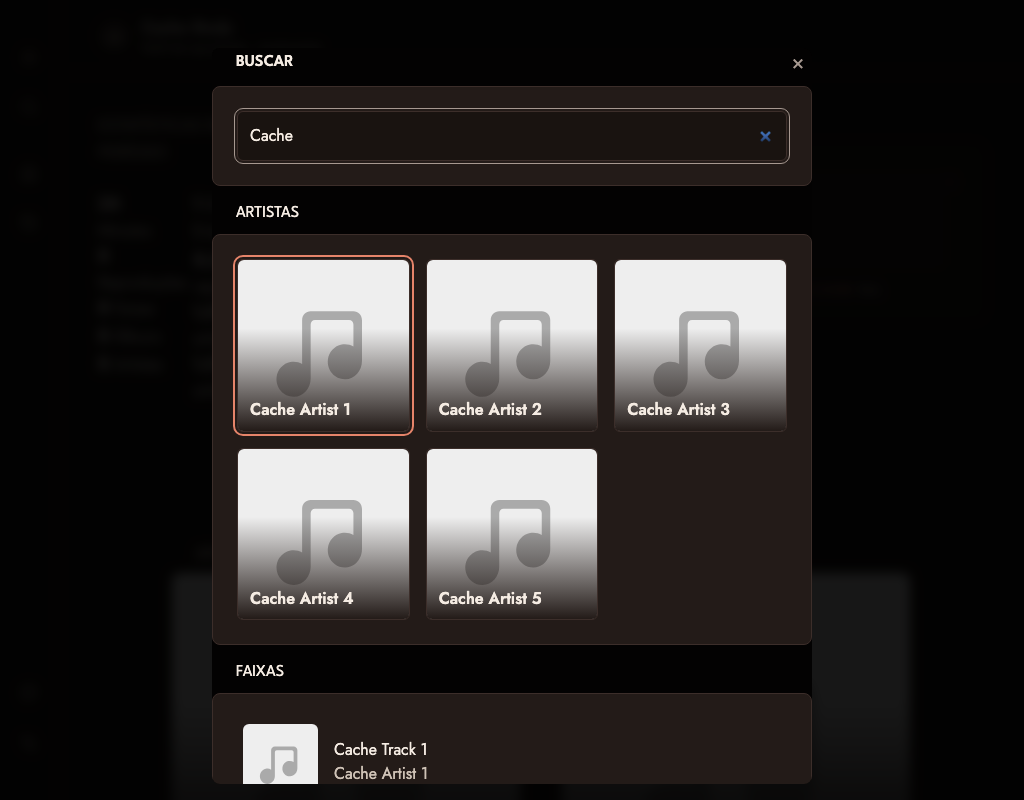
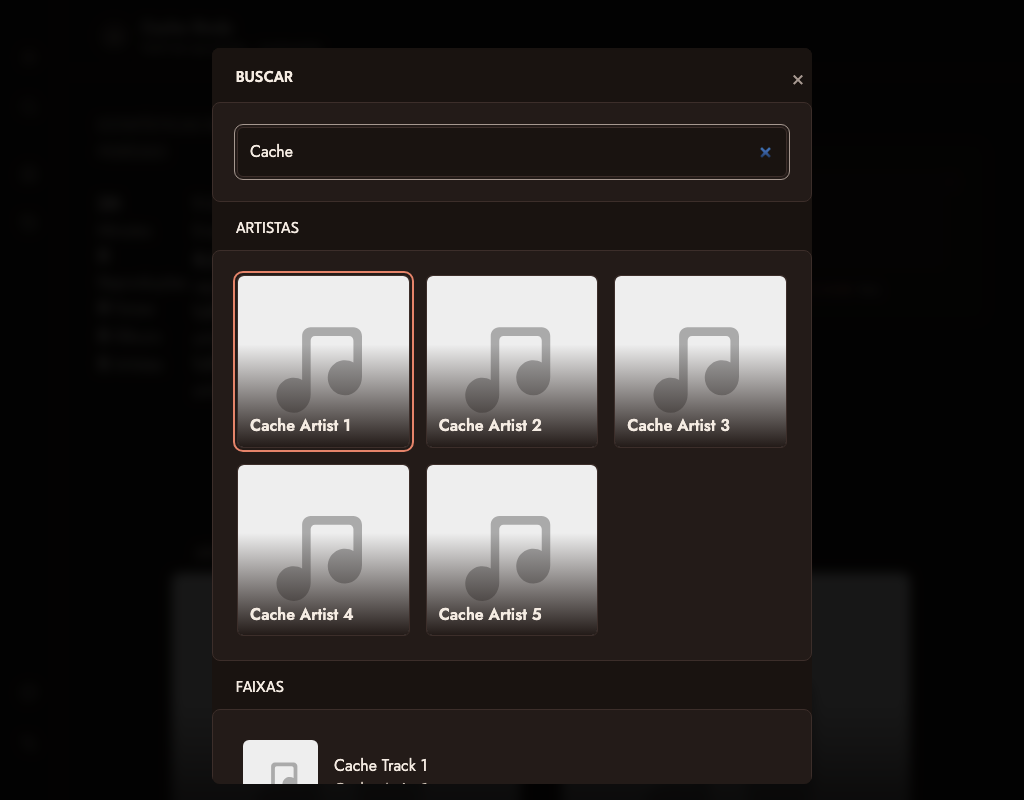
ISSUE-107: Usa o fundo do tema no diálogo de busca para manter os títulos legíveis
No tema Pearl os títulos ficavam escuros sobre fundo escuro; o roteiro agora verifica o Pearl.

diff --git a/backlog/evidencias/issue-067/reference/public/album.html b/backlog/evidencias/issue-067/reference/public/album.html
@@ -15,7 +15,7 @@
       >
       <link rel="stylesheet" href="/web-assets/themes.css?v=e7720dfde7612d2e0000f10b7373a517702a409aee8a2b1774b89ce7698947f4">
       <script src="/web-assets/theme.js?v=0c593fb63234b2c4c4d8a9657c42c8a5bfbb5a0184422f7b59ac2707c347798a"></script>
-      <link rel="stylesheet" href="/web-assets/ui.css?v=722b458812f1cf9aec5ada8575b8138265e23d92aa00cf426e5deeeb2eae15dd">
+      <link rel="stylesheet" href="/web-assets/ui.css?v=886c77fc96cf7fd834d93e819556761d03e18ae1dc70c03c0732666ab7cc0bd1">
       <script defer src="/web-assets/theme-picker.js?v=2a7c560c283c563fea7209a8b8244b98170eb46b5b0e712ebf41a438c5a583b1"></script>
       <script defer src="/web-assets/nav.js?v=5b5589a73f4b9ef414aef5c020186951c947e3850ba52c2263cbbee8cba1977c"></script>
       <script defer src="/web-assets/ui.js?v=fa4d2fbdf77a86dc6042add5616af9c7df48fac084ae9269ecb1fc1d4cd33012"></script>
@@ -29,7 +29,7 @@
       data-i18n-delete-confirm="Delete this listening record?"
       data-i18n-delete-error="Unable to delete this listening record. Please retry."
       data-assets="/web-assets"
-      data-ui-generation="0.10-96ac506255655ebbe46f2aaef1f4e0e4f91db052e2d34fb525fecb5105fc08b5"
+      data-ui-generation="0.10-08bb0aa37d3e4ff9db4d67f42cc1f5b781b7f1eba70fdb15e3539a55bc9389f8"
       data-timezone="UTC"
       data-week-start="0"
       data-force-timezone="false"

diff --git a/backlog/evidencias/issue-067/reference/public/albums.html b/backlog/evidencias/issue-067/reference/public/albums.html
@@ -15,7 +15,7 @@
       >
       <link rel="stylesheet" href="/web-assets/themes.css?v=e7720dfde7612d2e0000f10b7373a517702a409aee8a2b1774b89ce7698947f4">
       <script src="/web-assets/theme.js?v=0c593fb63234b2c4c4d8a9657c42c8a5bfbb5a0184422f7b59ac2707c347798a"></script>
-      <link rel="stylesheet" href="/web-assets/ui.css?v=722b458812f1cf9aec5ada8575b8138265e23d92aa00cf426e5deeeb2eae15dd">
+      <link rel="stylesheet" href="/web-assets/ui.css?v=886c77fc96cf7fd834d93e819556761d03e18ae1dc70c03c0732666ab7cc0bd1">
       <script defer src="/web-assets/theme-picker.js?v=2a7c560c283c563fea7209a8b8244b98170eb46b5b0e712ebf41a438c5a583b1"></script>
       <script defer src="/web-assets/nav.js?v=5b5589a73f4b9ef414aef5c020186951c947e3850ba52c2263cbbee8cba1977c"></script>
       <script defer src="/web-assets/ui.js?v=fa4d2fbdf77a86dc6042add5616af9c7df48fac084ae9269ecb1fc1d4cd33012"></script>
@@ -29,7 +29,7 @@
       data-i18n-delete-confirm="Delete this listening record?"
       data-i18n-delete-error="Unable to delete this listening record. Please retry."
       data-assets="/web-assets"
-      data-ui-generation="0.10-96ac506255655ebbe46f2aaef1f4e0e4f91db052e2d34fb525fecb5105fc08b5"
+      data-ui-generation="0.10-08bb0aa37d3e4ff9db4d67f42cc1f5b781b7f1eba70fdb15e3539a55bc9389f8"
       data-timezone="UTC"
       data-week-start="0"
       data-force-timezone="false"

diff --git a/backlog/evidencias/issue-067/reference/public/artist.html b/backlog/evidencias/issue-067/reference/public/artist.html
@@ -15,7 +15,7 @@
       >
       <link rel="stylesheet" href="/web-assets/themes.css?v=e7720dfde7612d2e0000f10b7373a517702a409aee8a2b1774b89ce7698947f4">
       <script src="/web-assets/theme.js?v=0c593fb63234b2c4c4d8a9657c42c8a5bfbb5a0184422f7b59ac2707c347798a"></script>
-      <link rel="stylesheet" href="/web-assets/ui.css?v=722b458812f1cf9aec5ada8575b8138265e23d92aa00cf426e5deeeb2eae15dd">
+      <link rel="stylesheet" href="/web-assets/ui.css?v=886c77fc96cf7fd834d93e819556761d03e18ae1dc70c03c0732666ab7cc0bd1">
       <script defer src="/web-assets/theme-picker.js?v=2a7c560c283c563fea7209a8b8244b98170eb46b5b0e712ebf41a438c5a583b1"></script>
       <script defer src="/web-assets/nav.js?v=5b5589a73f4b9ef414aef5c020186951c947e3850ba52c2263cbbee8cba1977c"></script>
       <script defer src="/web-assets/ui.js?v=fa4d2fbdf77a86dc6042add5616af9c7df48fac084ae9269ecb1fc1d4cd33012"></script>
@@ -29,7 +29,7 @@
       data-i18n-delete-confirm="Delete this listening record?"
       data-i18n-delete-error="Unable to delete this listening record. Please retry."
       data-assets="/web-assets"
-      data-ui-generation="0.10-96ac506255655ebbe46f2aaef1f4e0e4f91db052e2d34fb525fecb5105fc08b5"
+      data-ui-generation="0.10-08bb0aa37d3e4ff9db4d67f42cc1f5b781b7f1eba70fdb15e3539a55bc9389f8"
       data-timezone="UTC"
       data-week-start="0"
       data-force-timezone="false"

diff --git a/backlog/evidencias/issue-067/reference/public/artists.html b/backlog/evidencias/issue-067/reference/public/artists.html
@@ -15,7 +15,7 @@
       >
       <link rel="stylesheet" href="/web-assets/themes.css?v=e7720dfde7612d2e0000f10b7373a517702a409aee8a2b1774b89ce7698947f4">
       <script src="/web-assets/theme.js?v=0c593fb63234b2c4c4d8a9657c42c8a5bfbb5a0184422f7b59ac2707c347798a"></script>
-      <link rel="stylesheet" href="/web-assets/ui.css?v=722b458812f1cf9aec5ada8575b8138265e23d92aa00cf426e5deeeb2eae15dd">
+      <link rel="stylesheet" href="/web-assets/ui.css?v=886c77fc96cf7fd834d93e819556761d03e18ae1dc70c03c0732666ab7cc0bd1">
       <script defer src="/web-assets/theme-picker.js?v=2a7c560c283c563fea7209a8b8244b98170eb46b5b0e712ebf41a438c5a583b1"></script>
       <script defer src="/web-assets/nav.js?v=5b5589a73f4b9ef414aef5c020186951c947e3850ba52c2263cbbee8cba1977c"></script>
       <script defer src="/web-assets/ui.js?v=fa4d2fbdf77a86dc6042add5616af9c7df48fac084ae9269ecb1fc1d4cd33012"></script>
@@ -29,7 +29,7 @@
       data-i18n-delete-confirm="Delete this listening record?"
       data-i18n-delete-error="Unable to delete this listening record. Please retry."
       data-assets="/web-assets"
-      data-ui-generation="0.10-96ac506255655ebbe46f2aaef1f4e0e4f91db052e2d34fb525fecb5105fc08b5"
+      data-ui-generation="0.10-08bb0aa37d3e4ff9db4d67f42cc1f5b781b7f1eba70fdb15e3539a55bc9389f8"
       data-timezone="UTC"
       data-week-start="0"
       data-force-timezone="false"

diff --git a/backlog/evidencias/issue-067/reference/public/empty.html b/backlog/evidencias/issue-067/reference/public/empty.html
@@ -15,7 +15,7 @@
       >
       <link rel="stylesheet" href="/web-assets/themes.css?v=e7720dfde7612d2e0000f10b7373a517702a409aee8a2b1774b89ce7698947f4">
       <script src="/web-assets/theme.js?v=0c593fb63234b2c4c4d8a9657c42c8a5bfbb5a0184422f7b59ac2707c347798a"></script>
-      <link rel="stylesheet" href="/web-assets/ui.css?v=722b458812f1cf9aec5ada8575b8138265e23d92aa00cf426e5deeeb2eae15dd">
+      <link rel="stylesheet" href="/web-assets/ui.css?v=886c77fc96cf7fd834d93e819556761d03e18ae1dc70c03c0732666ab7cc0bd1">
       <script defer src="/web-assets/theme-picker.js?v=2a7c560c283c563fea7209a8b8244b98170eb46b5b0e712ebf41a438c5a583b1"></script>
       <script defer src="/web-assets/nav.js?v=5b5589a73f4b9ef414aef5c020186951c947e3850ba52c2263cbbee8cba1977c"></script>
       <script defer src="/web-assets/ui.js?v=fa4d2fbdf77a86dc6042add5616af9c7df48fac084ae9269ecb1fc1d4cd33012"></script>
@@ -29,7 +29,7 @@
       data-i18n-delete-confirm="Delete this listening record?"
       data-i18n-delete-error="Unable to delete this listening record. Please retry."
       data-assets="/web-assets"
-      data-ui-generation="0.10-96ac506255655ebbe46f2aaef1f4e0e4f91db052e2d34fb525fecb5105fc08b5"
+      data-ui-generation="0.10-08bb0aa37d3e4ff9db4d67f42cc1f5b781b7f1eba70fdb15e3539a55bc9389f8"
       data-timezone="UTC"
       data-week-start="0"
       data-force-timezone="false"

diff --git a/backlog/evidencias/issue-067/reference/public/home.html b/backlog/evidencias/issue-067/reference/public/home.html
@@ -15,7 +15,7 @@
       >
       <link rel="stylesheet" href="/web-assets/themes.css?v=e7720dfde7612d2e0000f10b7373a517702a409aee8a2b1774b89ce7698947f4">
       <script src="/web-assets/theme.js?v=0c593fb63234b2c4c4d8a9657c42c8a5bfbb5a0184422f7b59ac2707c347798a"></script>
-      <link rel="stylesheet" href="/web-assets/ui.css?v=722b458812f1cf9aec5ada8575b8138265e23d92aa00cf426e5deeeb2eae15dd">
+      <link rel="stylesheet" href="/web-assets/ui.css?v=886c77fc96cf7fd834d93e819556761d03e18ae1dc70c03c0732666ab7cc0bd1">
       <script defer src="/web-assets/theme-picker.js?v=2a7c560c283c563fea7209a8b8244b98170eb46b5b0e712ebf41a438c5a583b1"></script>
       <script defer src="/web-assets/nav.js?v=5b5589a73f4b9ef414aef5c020186951c947e3850ba52c2263cbbee8cba1977c"></script>
       <script defer src="/web-assets/ui.js?v=fa4d2fbdf77a86dc6042add5616af9c7df48fac084ae9269ecb1fc1d4cd33012"></script>
@@ -29,7 +29,7 @@
       data-i18n-delete-confirm="Delete this listening record?"
       data-i18n-delete-error="Unable to delete this listening record. Please retry."
       data-assets="/web-assets"
-      data-ui-generation="0.10-96ac506255655ebbe46f2aaef1f4e0e4f91db052e2d34fb525fecb5105fc08b5"
+      data-ui-generation="0.10-08bb0aa37d3e4ff9db4d67f42cc1f5b781b7f1eba70fdb15e3539a55bc9389f8"
       data-timezone="UTC"
       data-week-start="0"
       data-force-timezone="false"

diff --git a/backlog/evidencias/issue-067/reference/public/listens.html b/backlog/evidencias/issue-067/reference/public/listens.html
@@ -15,7 +15,7 @@
       >
       <link rel="stylesheet" href="/web-assets/themes.css?v=e7720dfde7612d2e0000f10b7373a517702a409aee8a2b1774b89ce7698947f4">
       <script src="/web-assets/theme.js?v=0c593fb63234b2c4c4d8a9657c42c8a5bfbb5a0184422f7b59ac2707c347798a"></script>
-      <link rel="stylesheet" href="/web-assets/ui.css?v=722b458812f1cf9aec5ada8575b8138265e23d92aa00cf426e5deeeb2eae15dd">
+      <link rel="stylesheet" href="/web-assets/ui.css?v=886c77fc96cf7fd834d93e819556761d03e18ae1dc70c03c0732666ab7cc0bd1">
       <script defer src="/web-assets/theme-picker.js?v=2a7c560c283c563fea7209a8b8244b98170eb46b5b0e712ebf41a438c5a583b1"></script>
       <script defer src="/web-assets/nav.js?v=5b5589a73f4b9ef414aef5c020186951c947e3850ba52c2263cbbee8cba1977c"></script>
       <script defer src="/web-assets/ui.js?v=fa4d2fbdf77a86dc6042add5616af9c7df48fac084ae9269ecb1fc1d4cd33012"></script>
@@ -29,7 +29,7 @@
       data-i18n-delete-confirm="Delete this listening record?"
       data-i18n-delete-error="Unable to delete this listening record. Please retry."
       data-assets="/web-assets"
-      data-ui-generation="0.10-96ac506255655ebbe46f2aaef1f4e0e4f91db052e2d34fb525fecb5105fc08b5"
+      data-ui-generation="0.10-08bb0aa37d3e4ff9db4d67f42cc1f5b781b7f1eba70fdb15e3539a55bc9389f8"
       data-timezone="UTC"
       data-week-start="0"
       data-force-timezone="false"

diff --git a/backlog/evidencias/issue-067/reference/public/rewind-year.html b/backlog/evidencias/issue-067/reference/public/rewind-year.html
@@ -15,7 +15,7 @@
       >
       <link rel="stylesheet" href="/web-assets/themes.css?v=e7720dfde7612d2e0000f10b7373a517702a409aee8a2b1774b89ce7698947f4">
       <script src="/web-assets/theme.js?v=0c593fb63234b2c4c4d8a9657c42c8a5bfbb5a0184422f7b59ac2707c347798a"></script>
-      <link rel="stylesheet" href="/web-assets/ui.css?v=722b458812f1cf9aec5ada8575b8138265e23d92aa00cf426e5deeeb2eae15dd">
+      <link rel="stylesheet" href="/web-assets/ui.css?v=886c77fc96cf7fd834d93e819556761d03e18ae1dc70c03c0732666ab7cc0bd1">
       <script defer src="/web-assets/theme-picker.js?v=2a7c560c283c563fea7209a8b8244b98170eb46b5b0e712ebf41a438c5a583b1"></script>
       <script defer src="/web-assets/nav.js?v=5b5589a73f4b9ef414aef5c020186951c947e3850ba52c2263cbbee8cba1977c"></script>
       <script defer src="/web-assets/ui.js?v=fa4d2fbdf77a86dc6042add5616af9c7df48fac084ae9269ecb1fc1d4cd33012"></script>
@@ -29,7 +29,7 @@
       data-i18n-delete-confirm="Delete this listening record?"
       data-i18n-delete-error="Unable to delete this listening record. Please retry."
       data-assets="/web-assets"
-      data-ui-generation="0.10-96ac506255655ebbe46f2aaef1f4e0e4f91db052e2d34fb525fecb5105fc08b5"
+      data-ui-generation="0.10-08bb0aa37d3e4ff9db4d67f42cc1f5b781b7f1eba70fdb15e3539a55bc9389f8"
       data-timezone="UTC"
       data-week-start="0"
       data-force-timezone="false"

diff --git a/backlog/evidencias/issue-067/reference/public/rewind.html b/backlog/evidencias/issue-067/reference/public/rewind.html
@@ -15,7 +15,7 @@
       >
       <link rel="stylesheet" href="/web-assets/themes.css?v=e7720dfde7612d2e0000f10b7373a517702a409aee8a2b1774b89ce7698947f4">
       <script src="/web-assets/theme.js?v=0c593fb63234b2c4c4d8a9657c42c8a5bfbb5a0184422f7b59ac2707c347798a"></script>
-      <link rel="stylesheet" href="/web-assets/ui.css?v=722b458812f1cf9aec5ada8575b8138265e23d92aa00cf426e5deeeb2eae15dd">
+      <link rel="stylesheet" href="/web-assets/ui.css?v=886c77fc96cf7fd834d93e819556761d03e18ae1dc70c03c0732666ab7cc0bd1">
       <script defer src="/web-assets/theme-picker.js?v=2a7c560c283c563fea7209a8b8244b98170eb46b5b0e712ebf41a438c5a583b1"></script>
       <script defer src="/web-assets/nav.js?v=5b5589a73f4b9ef414aef5c020186951c947e3850ba52c2263cbbee8cba1977c"></script>
       <script defer src="/web-assets/ui.js?v=fa4d2fbdf77a86dc6042add5616af9c7df48fac084ae9269ecb1fc1d4cd33012"></script>
@@ -29,7 +29,7 @@
       data-i18n-delete-confirm="Delete this listening record?"
       data-i18n-delete-error="Unable to delete this listening record. Please retry."
       data-assets="/web-assets"
-      data-ui-generation="0.10-96ac506255655ebbe46f2aaef1f4e0e4f91db052e2d34fb525fecb5105fc08b5"
+      data-ui-generation="0.10-08bb0aa37d3e4ff9db4d67f42cc1f5b781b7f1eba70fdb15e3539a55bc9389f8"
       data-timezone="UTC"
       data-week-start="0"
       data-force-timezone="false"

diff --git a/backlog/evidencias/issue-067/reference/public/track.html b/backlog/evidencias/issue-067/reference/public/track.html
@@ -15,7 +15,7 @@
       >
       <link rel="stylesheet" href="/web-assets/themes.css?v=e7720dfde7612d2e0000f10b7373a517702a409aee8a2b1774b89ce7698947f4">
       <script src="/web-assets/theme.js?v=0c593fb63234b2c4c4d8a9657c42c8a5bfbb5a0184422f7b59ac2707c347798a"></script>
-      <link rel="stylesheet" href="/web-assets/ui.css?v=722b458812f1cf9aec5ada8575b8138265e23d92aa00cf426e5deeeb2eae15dd">
+      <link rel="stylesheet" href="/web-assets/ui.css?v=886c77fc96cf7fd834d93e819556761d03e18ae1dc70c03c0732666ab7cc0bd1">
       <script defer src="/web-assets/theme-picker.js?v=2a7c560c283c563fea7209a8b8244b98170eb46b5b0e712ebf41a438c5a583b1"></script>
       <script defer src="/web-assets/nav.js?v=5b5589a73f4b9ef414aef5c020186951c947e3850ba52c2263cbbee8cba1977c"></script>
       <script defer src="/web-assets/ui.js?v=fa4d2fbdf77a86dc6042add5616af9c7df48fac084ae9269ecb1fc1d4cd33012"></script>
@@ -29,7 +29,7 @@
       data-i18n-delete-confirm="Delete this listening record?"
       data-i18n-delete-error="Unable to delete this listening record. Please retry."
       data-assets="/web-assets"
-      data-ui-generation="0.10-96ac506255655ebbe46f2aaef1f4e0e4f91db052e2d34fb525fecb5105fc08b5"
+      data-ui-generation="0.10-08bb0aa37d3e4ff9db4d67f42cc1f5b781b7f1eba70fdb15e3539a55bc9389f8"
       data-timezone="UTC"
       data-week-start="0"
       data-force-timezone="false"

diff --git a/backlog/evidencias/issue-067/reference/public/tracks.html b/backlog/evidencias/issue-067/reference/public/tracks.html
@@ -15,7 +15,7 @@
       >
       <link rel="stylesheet" href="/web-assets/themes.css?v=e7720dfde7612d2e0000f10b7373a517702a409aee8a2b1774b89ce7698947f4">
       <script src="/web-assets/theme.js?v=0c593fb63234b2c4c4d8a9657c42c8a5bfbb5a0184422f7b59ac2707c347798a"></script>
-      <link rel="stylesheet" href="/web-assets/ui.css?v=722b458812f1cf9aec5ada8575b8138265e23d92aa00cf426e5deeeb2eae15dd">
+      <link rel="stylesheet" href="/web-assets/ui.css?v=886c77fc96cf7fd834d93e819556761d03e18ae1dc70c03c0732666ab7cc0bd1">
       <script defer src="/web-assets/theme-picker.js?v=2a7c560c283c563fea7209a8b8244b98170eb46b5b0e712ebf41a438c5a583b1"></script>
       <script defer src="/web-assets/nav.js?v=5b5589a73f4b9ef414aef5c020186951c947e3850ba52c2263cbbee8cba1977c"></script>
       <script defer src="/web-assets/ui.js?v=fa4d2fbdf77a86dc6042add5616af9c7df48fac084ae9269ecb1fc1d4cd33012"></script>
@@ -29,7 +29,7 @@
       data-i18n-delete-confirm="Delete this listening record?"
       data-i18n-delete-error="Unable to delete this listening record. Please retry."
       data-assets="/web-assets"
-      data-ui-generation="0.10-96ac506255655ebbe46f2aaef1f4e0e4f91db052e2d34fb525fecb5105fc08b5"
+      data-ui-generation="0.10-08bb0aa37d3e4ff9db4d67f42cc1f5b781b7f1eba70fdb15e3539a55bc9389f8"
       data-timezone="UTC"
       data-week-start="0"
       data-force-timezone="false"

diff --git a/backlog/evidencias/issue-067/reference/public/profiles.html b/backlog/evidencias/issue-067/reference/public/profiles.html
@@ -15,7 +15,7 @@
       >
       <link rel="stylesheet" href="/web-assets/themes.css?v=e7720dfde7612d2e0000f10b7373a517702a409aee8a2b1774b89ce7698947f4">
       <script src="/web-assets/theme.js?v=0c593fb63234b2c4c4d8a9657c42c8a5bfbb5a0184422f7b59ac2707c347798a"></script>
-      <link rel="stylesheet" href="/web-assets/ui.css?v=722b458812f1cf9aec5ada8575b8138265e23d92aa00cf426e5deeeb2eae15dd">
+      <link rel="stylesheet" href="/web-assets/ui.css?v=886c77fc96cf7fd834d93e819556761d03e18ae1dc70c03c0732666ab7cc0bd1">
       <script defer src="/web-assets/theme-picker.js?v=2a7c560c283c563fea7209a8b8244b98170eb46b5b0e712ebf41a438c5a583b1"></script>
       <script defer src="/web-assets/nav.js?v=5b5589a73f4b9ef414aef5c020186951c947e3850ba52c2263cbbee8cba1977c"></script>
       <script defer src="/web-assets/ui.js?v=fa4d2fbdf77a86dc6042add5616af9c7df48fac084ae9269ecb1fc1d4cd33012"></script>
@@ -29,7 +29,7 @@
       data-i18n-delete-confirm="Delete this listening record?"
       data-i18n-delete-error="Unable to delete this listening record. Please retry."
       data-assets="/web-assets"
-      data-ui-generation="0.10-96ac506255655ebbe46f2aaef1f4e0e4f91db052e2d34fb525fecb5105fc08b5"
+      data-ui-generation="0.10-08bb0aa37d3e4ff9db4d67f42cc1f5b781b7f1eba70fdb15e3539a55bc9389f8"
       data-timezone=""
       data-week-start="0"
       data-force-timezone="false"
